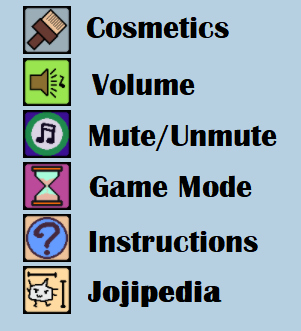
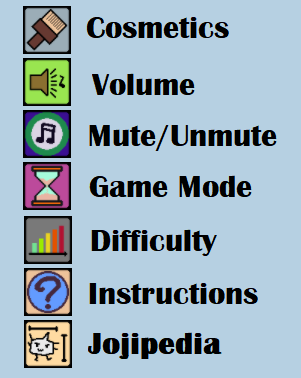
Updating difficulty to tutorial

diff --git a/vpet_tutorial_page/tutorial.html b/vpet_tutorial_page/tutorial.html
@@ -290,6 +290,14 @@
         <hr class="category_divider">
 
         <p>
+            <b>Difficulty</b>: Has two difficulty options, chill mode and challenge mode.<br>
+            <ul>
+            <li><b>Chill mode</b> is adapted for the PC reality, longer breaks between checking your Tamajoji.
+            They're slightly less demanding and a bit more independent.</li>
+            <li><b>Challenge mode</b> is closer to the old school virtual pets, as needy as a v-pet running
+            in your keychain, you might need to use pause mode more often (when leaving the PC for some hours)
+            more challenging, and more things happening!</li>
+            </ul>
             <b>Instructions</b>: An amazing, beautiful and useful page teaching eloquently and smoothly
             everything about the incredible universe of Tamajoji <br>
             <b>Jojipedia</b>: Knowledge and facts about the different stages and evolutions of Tamajoji<br>

diff --git a/javascript/app.js b/javascript/app.js
@@ -2734,8 +2734,20 @@ function update_difficulty_radio_button(){
     radio_array[difficulty].checked =  true;
 }
 
+function firefox_detector(){
+    let w3UserAgent = navigator.userAgent;
+
+    if (w3UserAgent.indexOf("Firefox") > -1) {
+        console.log("is firefox");
+    }else{
+        console.log("is not firefox");
+    }
+
+}
+
 //runs at the begining of the game
 function start(){
+    firefox_detector();
     set_window_singleton();
     
     load_auto_mute_config();
